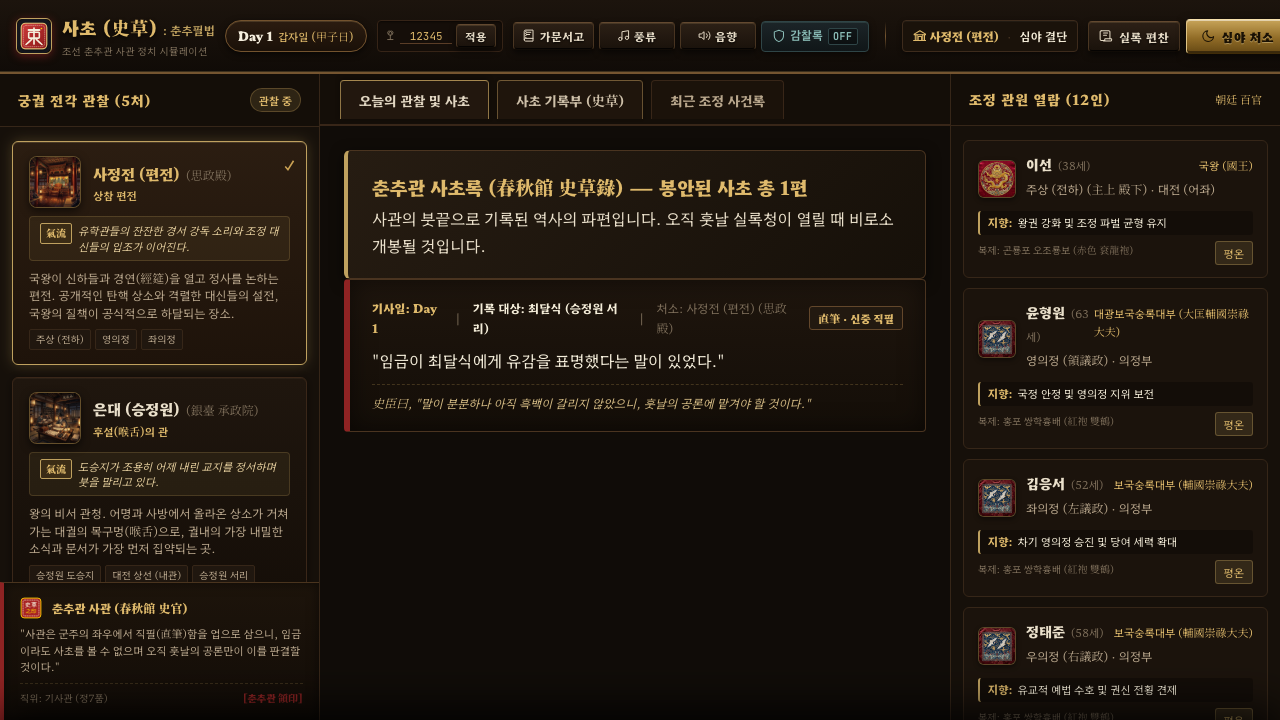
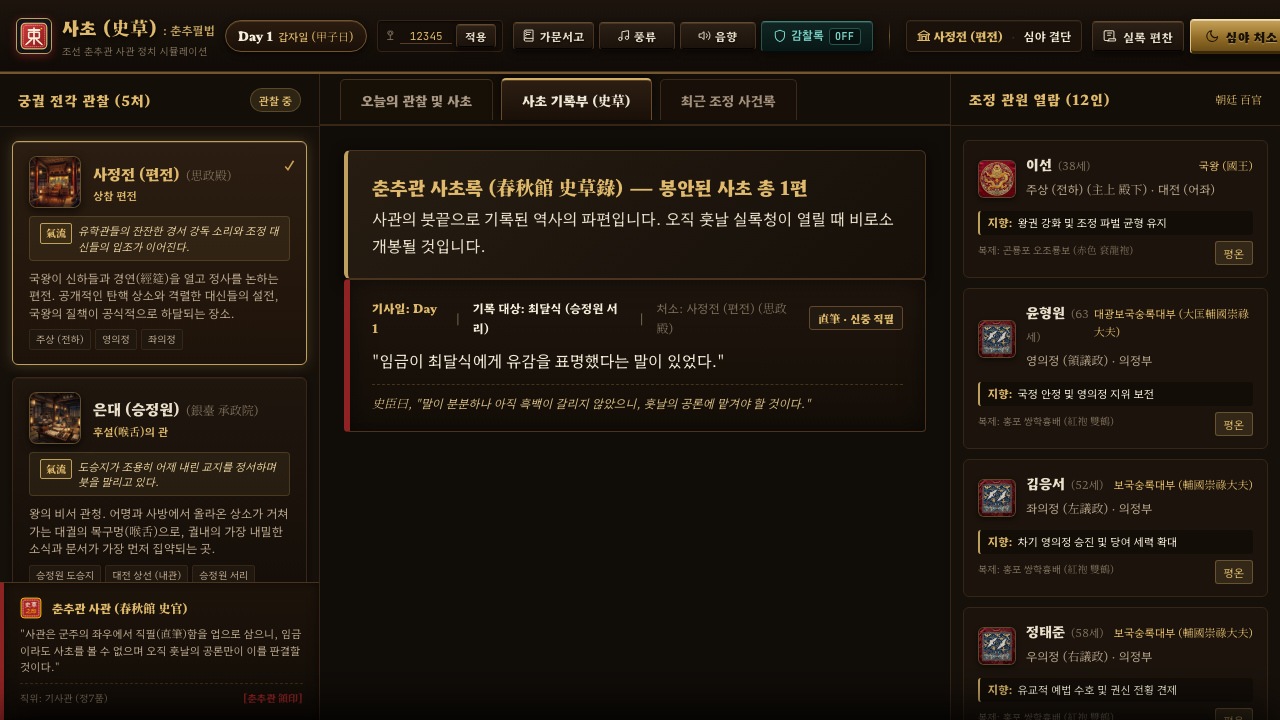
feat: complete mobile console accessibility with 2-way access and upgrade royal aesthetic theme
- Add 5th navigation tab '감찰록' (사헌부 감찰록) to mobile bottom bar for 1-touch thumb access
- Compact mobile header top row by hiding non-essential text tags, ensuring the jade-themed console toggle button (OFF/ON) is 100% visible on all mobile screens
- Redesign console button with royal jade seal (비취 옥패) aesthetic with emerald glow and distinct contrast
- Upgrade UI/UX theme with royal lacquerware, brass borders, gold foil tab indicators, and frosted glassmorphism
- All 9 Playwright E2E tests verified and passing (19.2s)

Changed region(s): [[0.2812, 0.0917, 0.625, 0.1528], [0.5938, 0.0306, 1.0, 0.0611]]

diff --git a/src/styles/main.css b/src/styles/main.css
@@ -463,46 +463,52 @@ body {
   box-shadow: inset 0 2px 4px rgba(0, 0, 0, 0.8), 0 1px 2px rgba(0, 0, 0, 0.5) !important;
 }
 
-/* 사헌부 먹물 암행패 버튼 */
+/* 사헌부 비취 옥패(Jade Seal) 암행패 버튼 */
 .btn-debug {
-  background: linear-gradient(180deg, #1c2528 0%, #101618 100%);
-  color: #8abcb6;
-  border: 1px solid #2f4547;
+  background: linear-gradient(180deg, #102624 0%, #081715 100%);
+  color: #79d2c6;
+  border: 1px solid #28544e;
+  border-top: 1px solid #3d8076;
+  border-bottom: 1px solid #050d0c;
   font-family: var(--font-mono);
   font-size: 12px;
-  padding: 6px 10px;
+  padding: 6px 11px;
   white-space: nowrap;
   flex-shrink: 0;
   display: inline-flex;
   align-items: center;
   gap: 5px;
-  box-shadow: inset 0 1px 0 rgba(140, 200, 190, 0.15), 0 2px 6px rgba(0, 0, 0, 0.5);
+  border-radius: var(--radius-sm);
+  box-shadow: inset 0 1px 0 rgba(121, 210, 198, 0.2), 0 2px 8px rgba(0, 0, 0, 0.6);
+  transition: all 0.15s ease;
 }
 .btn-debug:hover {
-  background: linear-gradient(180deg, #243438 0%, #162022 100%);
-  border-color: #4a706b;
-  color: #b0ded9;
+  background: linear-gradient(180deg, #163633 0%, #0d2220 100%);
+  border-color: #4ea89d;
+  color: #a8f5eb;
+  box-shadow: 0 0 12px rgba(78, 168, 157, 0.4), inset 0 1px 0 rgba(255, 255, 255, 0.2);
   transform: translateY(-1px);
 }
 .btn-debug.active {
-  background: linear-gradient(180deg, #243939 0%, #152424 100%);
-  color: #aae0d8;
-  border-color: #4a7570;
-  box-shadow: 0 0 10px rgba(74, 117, 112, 0.5), inset 0 1px 0 rgba(255, 255, 255, 0.15);
+  background: linear-gradient(180deg, #1c4540 0%, #102e2b 100%);
+  color: #c4fff7;
+  border-color: #5ec5b7;
+  box-shadow: 0 0 14px rgba(94, 197, 183, 0.6), inset 0 1px 0 rgba(255, 255, 255, 0.3);
 }
 .btn-debug .debug-state-tag {
   font-size: 10px;
-  padding: 1px 4px;
-  border-radius: 2px;
-  background: rgba(0, 0, 0, 0.35);
-  border: 1px solid #2f4547;
-  color: #8abcb6;
-  font-weight: 700;
+  padding: 1px 5px;
+  border-radius: 3px;
+  background: rgba(0, 0, 0, 0.4);
+  border: 1px solid #28544e;
+  color: #79d2c6;
+  font-weight: 800;
+  letter-spacing: 0.5px;
 }
 .btn-debug.active .debug-state-tag {
-  background: rgba(40, 90, 80, 0.5);
-  border-color: #5ea89e;
-  color: #c0f2eb;
+  background: rgba(46, 125, 115, 0.6);
+  border-color: #7ef2e0;
+  color: #ffffff;
 }
 
 .btn-xs {
@@ -810,32 +816,34 @@ body {
 }
 
 .nav-tab {
-  background: #1b120a;
-  border: 1px solid #382618;
+  background: #181008;
+  border: 1px solid #3d2919;
   border-bottom: none;
-  color: var(--text-secondary);
+  color: #a3907c;
   font-family: var(--font-serif);
   font-size: 13.5px;
   font-weight: 700;
-  padding: 9px 18px;
+  padding: 10px 20px;
   cursor: pointer;
-  border-radius: 4px 4px 0 0;
-  transition: all 0.15s;
+  border-radius: 5px 5px 0 0;
+  transition: all 0.15s ease;
+  position: relative;
 }
 
 .nav-tab:hover {
-  color: var(--text-main);
-  background: #25190f;
+  color: #dfba6c;
+  background: #24170d;
   border-color: #5c3e24;
 }
 
 .nav-tab.active {
   color: #f5eedd;
-  background: #261a10;
-  border: 1px solid #bfa15f;
-  border-top: 2px solid #dfba6c;
+  background: linear-gradient(180deg, #2d1e12 0%, #1a1008 100%);
+  border: 1px solid #6b4c2a;
+  border-top: 3px solid #dfba6c;
   border-bottom: none;
-  box-shadow: 0 -2px 8px rgba(0, 0, 0, 0.5);
+  box-shadow: 0 -4px 12px rgba(0, 0, 0, 0.6), inset 0 1px 0 rgba(223, 186, 108, 0.25);
+  font-weight: 800;
 }
 
 #stage-body {
@@ -2194,13 +2202,14 @@ body {
     display: flex !important;
     align-items: stretch;
     justify-content: space-around;
-    background: linear-gradient(180deg, #1e140c 0%, #100a06 100%);
-    border-top: 1.5px solid #6b4c2a;
-    height: 58px;
-    min-height: 58px;
+    background: rgba(14, 9, 5, 0.96) !important;
+    backdrop-filter: blur(16px);
+    border-top: 1.5px solid #634524 !important;
+    height: 60px !important;
+    min-height: 60px !important;
     padding-bottom: env(safe-area-inset-bottom, 0px);
     z-index: 100;
-    box-shadow: 0 -4px 14px rgba(0, 0, 0, 0.75);
+    box-shadow: 0 -4px 20px rgba(0, 0, 0, 0.85), inset 0 1px 0 rgba(223, 186, 108, 0.2);
     flex-shrink: 0;
   }
 
@@ -2213,7 +2222,7 @@ body {
     border: none;
     color: #a3907c;
     cursor: pointer;
-    padding: 4px 6px;
+    padding: 4px 2px;
     font-family: var(--font-serif);
     transition: all 0.15s ease;
     flex: 1;
@@ -2223,7 +2232,7 @@ body {
   }
 
   .mobile-nav-btn .m-icon {
-    font-size: 22px;
+    font-size: 20px;
     line-height: 1;
     margin-bottom: 3px;
     transition: transform 0.15s ease;
@@ -2233,14 +2242,14 @@ body {
   }
 
   .mobile-nav-btn .m-icon .ui-icon {
-    width: 22px;
-    height: 22px;
+    width: 20px;
+    height: 20px;
   }
 
   .mobile-nav-btn .m-text {
-    font-size: 11px;
+    font-size: 10.5px;
     font-weight: 700;
-    letter-spacing: -0.2px;
+    letter-spacing: -0.3px;
     white-space: nowrap;
   }
 
@@ -2251,11 +2260,11 @@ body {
 
   .mobile-nav-btn.active {
     color: #dfba6c;
-    background: linear-gradient(180deg, rgba(223, 186, 108, 0.12) 0%, rgba(223, 186, 108, 0.02) 100%);
+    background: linear-gradient(180deg, rgba(223, 186, 108, 0.14) 0%, rgba(223, 186, 108, 0.02) 100%);
   }
 
   .mobile-nav-btn.active .m-icon {
-    transform: scale(1.15);
+    transform: scale(1.12);
   }
 
   .mobile-nav-btn.active::after {
@@ -2266,8 +2275,24 @@ body {
     right: 20%;
     height: 2.5px;
     background: #dfba6c;
-    box-shadow: 0 0 8px #dfba6c;
+    box-shadow: 0 0 10px #dfba6c;
     border-radius: 2px;
+  }
+
+  /* 5번째 감찰록(사헌부 비취 옥패) 탭 */
+  .mobile-nav-debug {
+    color: #5ea89e !important;
+  }
+  .mobile-nav-debug:hover {
+    color: #8de4d7 !important;
+  }
+  .mobile-nav-debug.active {
+    color: #a8f5eb !important;
+    background: linear-gradient(180deg, rgba(46, 125, 115, 0.22) 0%, rgba(46, 125, 115, 0.03) 100%) !important;
+  }
+  .mobile-nav-debug.active::after {
+    background: #5ec5b7 !important;
+    box-shadow: 0 0 10px #5ec5b7 !important;
   }
 
   /* Single Full-Width Panel Mobile Layout */
@@ -2298,12 +2323,12 @@ body {
   /* Header mobile adaptations (2-row clear layout) */
   .app-header {
     height: auto !important;
-    min-height: 80px;
-    padding: 7px 10px;
+    min-height: 76px;
+    padding: 6px 10px;
     flex-direction: column !important;
     align-items: stretch !important;
     justify-content: flex-start !important;
-    gap: 6px !important;
+    gap: 5px !important;
     overflow: visible !important;
   }
 
@@ -2312,7 +2337,7 @@ body {
     width: 100% !important;
     align-items: center !important;
     justify-content: space-between !important;
-    gap: 6px !important;
+    gap: 4px !important;
   }
 
   .header-sub-row {
@@ -2320,29 +2345,29 @@ body {
     width: 100% !important;
     align-items: center !important;
     justify-content: space-between !important;
-    gap: 8px !important;
+    gap: 6px !important;
   }
 
   .header-brand {
-    gap: 6px;
+    gap: 5px;
     flex-shrink: 0;
   }
 
   .seal-emblem-img {
-    width: 26px;
-    height: 26px;
+    width: 24px;
+    height: 24px;
   }
 
   .header-brand .subtitle {
-    display: none;
+    display: none !important;
+  }
+
+  .header-brand .title-tag {
+    display: none !important;
   }
 
   .title-group h1 {
-    font-size: 14.5px;
-  }
-
-  .title-tag {
-    font-size: 10.5px;
+    font-size: 14px;
   }
 
   .header-divider {
@@ -2353,23 +2378,28 @@ body {
     display: none !important;
   }
 
+  .day-sexagenary {
+    display: none !important;
+  }
+
   .day-badge {
-    padding: 3px 8px;
-    font-size: 11px;
-    flex-shrink: 0;
+    padding: 2px 7px !important;
+    font-size: 11px !important;
+    flex-shrink: 0 !important;
+    gap: 0 !important;
   }
 
   .header-quick-tools {
     display: flex !important;
     align-items: center !important;
-    gap: 4px !important;
+    gap: 3px !important;
     margin-left: auto !important;
     flex-shrink: 0 !important;
   }
 
   .phase-indicator {
     font-size: 11px;
-    padding: 4px 8px;
+    padding: 4px 7px;
     gap: 3px;
     flex-shrink: 0;
   }
@@ -2395,14 +2425,20 @@ body {
   .btn-audio,
   .btn-archive-quick {
     min-width: unset !important;
-    padding: 4px 6px !important;
+    padding: 3px 6px !important;
     font-size: 11px !important;
   }
 
   .btn-debug {
-    padding: 4px 7px !important;
+    padding: 3px 6px !important;
     font-size: 11px !important;
     flex-shrink: 0 !important;
+  }
+
+  @media (max-width: 480px) {
+    .btn-debug .debug-btn-text {
+      display: none !important;
+    }
   }
 
   /* Stage adjustments */

diff --git a/src/ui/UIManager.ts b/src/ui/UIManager.ts
@@ -15,7 +15,7 @@ import { SoundManager } from '../core/audio/SoundManager.js';
 import { renderIcon } from './icons/Icons.js';
 
 type MainTab = 'OBSERVATION' | 'SACHO_BOOK' | 'EVENT_LOG';
-type MobileView = 'LOCATIONS' | 'STAGE' | 'ROSTER' | 'ARCHIVE';
+type MobileView = 'LOCATIONS' | 'STAGE' | 'ROSTER' | 'ARCHIVE' | 'DEBUG';
 
 export class UIManager {
   private root: HTMLElement;
@@ -77,6 +77,10 @@ export class UIManager {
         <button class="mobile-nav-btn" data-mview="ARCHIVE">
           <span class="m-icon">${renderIcon('book')}</span>
           <span class="m-text">사초록</span>
+        </button>
+        <button class="mobile-nav-btn mobile-nav-debug" data-mview="DEBUG" title="사헌부 은밀 감찰록 열람">
+          <span class="m-icon">${renderIcon('shield')}</span>
+          <span class="m-text">감찰록</span>
         </button>
       </div>
       <div id="ending-root"></div>
@@ -171,6 +175,10 @@ export class UIManager {
 
   private setMobileView(view: MobileView): void {
     SoundManager.getInstance().playScroll();
+    if (view === 'DEBUG') {
+      this.toggleDebug();
+      return;
+    }
     this.activeMobileView = view;
     if (view === 'ARCHIVE') {
       this.activeMainTab = 'SACHO_BOOK';
@@ -398,7 +406,11 @@ export class UIManager {
 
     this.root.querySelectorAll('.mobile-nav-btn').forEach((btn) => {
       const v = btn.getAttribute('data-mview');
-      btn.classList.toggle('active', v === this.activeMobileView);
+      if (v === 'DEBUG') {
+        btn.classList.toggle('active', this.isDebugOpen);
+      } else {
+        btn.classList.toggle('active', v === this.activeMobileView);
+      }
     });
   }
 

diff --git a/src/ui/HeaderView.ts b/src/ui/HeaderView.ts
@@ -115,7 +115,7 @@ export class HeaderView {
               ${renderIcon(isMuted ? 'volume-x' : 'volume')} <span class="btn-text">${isMuted ? '무음' : '음향'}</span>
             </button>
             <button id="btn-debug-toggle" class="btn btn-debug ${isDebugOpen ? 'active' : ''}" title="사헌부 은밀 감찰록 열람">
-              ${renderIcon('shield')} <span>감찰록</span> <span class="debug-state-tag">${isDebugOpen ? 'ON' : 'OFF'}</span>
+              ${renderIcon('shield')} <span class="debug-btn-text">감찰록</span> <span class="debug-state-tag">${isDebugOpen ? 'ON' : 'OFF'}</span>
             </button>
           </div>
         </div>
